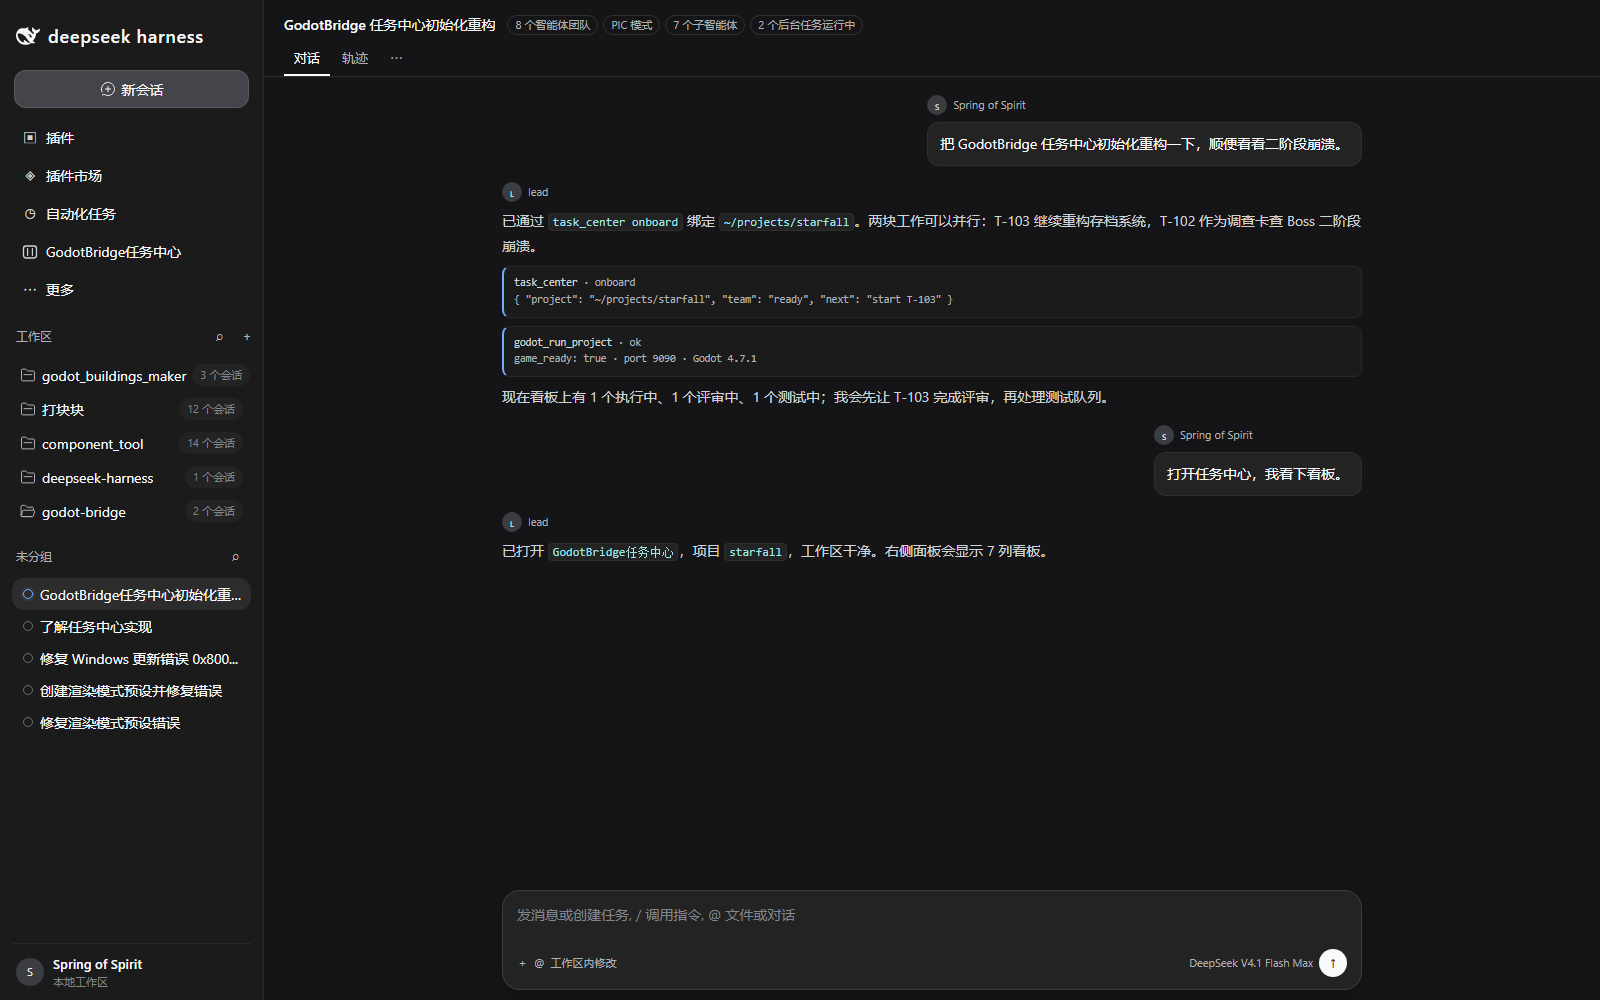
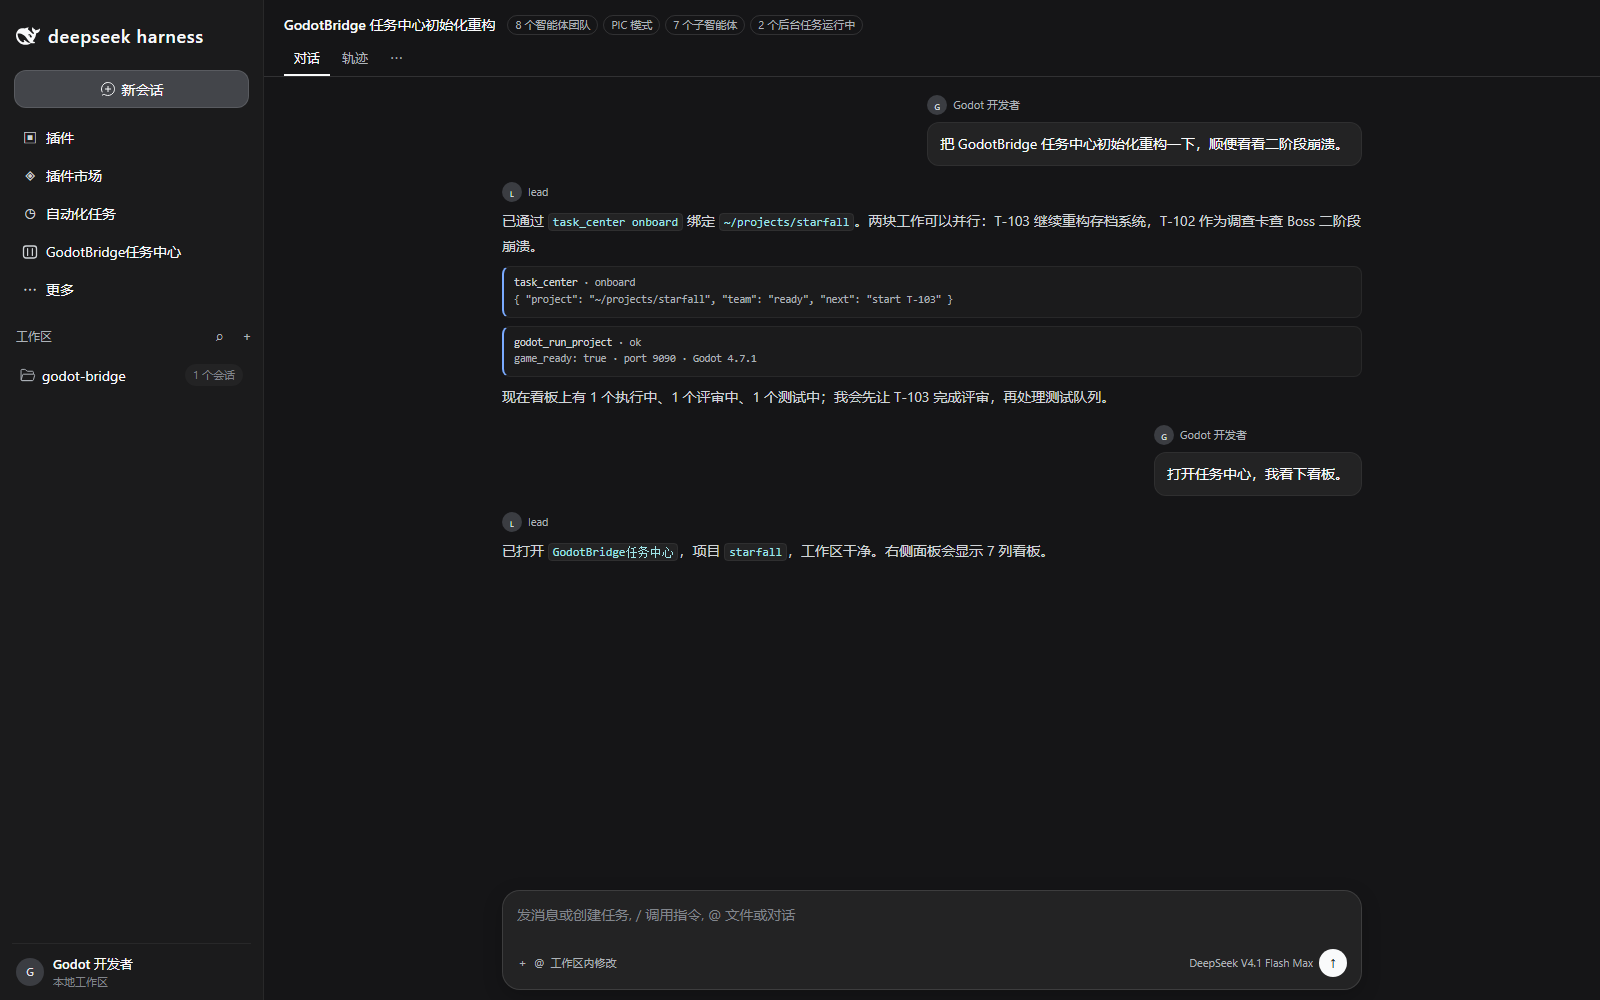
docs: simplify hero preview and illustrate bridge

diff --git a/site/index.html b/site/index.html
@@ -44,7 +44,7 @@
     <div class="hero-copy">
       <div class="eyebrow"><span class="pulse"></span> DeepSeek Harness Plugin · Godot 4.x</div>
       <h1>从操作游戏，<br><span class="grad">到交付任务</span></h1>
-      <p class="lede">Bridge 直接驱动运行中的 Godot 游戏；Task Center 把实现、评审、测试、合并跑成可审计的流水线。17 个原生 <code>godot_*</code> 工具 + 项目任务中心，一个 DSH 插件，两边都原生。</p>
+      <p class="lede">Bridge 直接驱动运行中的 Godot 游戏；Task Center 把实现、评审、测试、合并跑成可审计的流水线。17 个原生 <code>godot_*</code> 工具 + 项目任务中心，一个插件就能实现。</p>
       <div class="hero-actions">
         <a class="btn primary" href="#install">开始安装 <span class="arrow">→</span></a>
         <a class="btn" href="#workflow">看看怎么工作</a>
@@ -64,18 +64,38 @@
         <img src="assets/task-center.png" alt="DSH 侧栏与 GodotBridge 任务中心看板" width="1600" height="1000">
         <a class="zoom" href="assets/task-center.png" target="_blank" rel="noreferrer">查看原图 ↗</a>
       </div>
-      <div class="bridge-console">
-        <div class="bc-head"><span class="bc-tag">BRIDGE</span><span class="bc-live"><i></i>connected · 127.0.0.1:9090</span></div>
-        <div class="bc-body">
-          <div class="bc-lines">
-            <div class="bc-line"><code>godot_run_project</code><span>game_ready: true</span></div>
-            <div class="bc-line"><code>godot_command</code><span>get_scene_tree</span></div>
-            <div class="bc-line"><code>godot_command</code><span>eval · paused</span></div>
-            <div class="bc-line"><code>godot_screenshot</code><span>1600 × 900</span></div>
-          </div>
-          <div class="bc-tree"><b>Main</b><br>├─ Player<br>├─ Camera2D<br>└─ HUD</div>
-        </div>
-        <div class="bc-foot"><span>直接操作运行中的游戏</span><span>eval ✓</span></div>
+      <div class="visual-label bridge-label"><b>BRIDGE</b><span>直接操作运行中的游戏</span></div>
+      <div class="bridge-figure">
+        <svg class="bridge-diagram" viewBox="0 0 560 190" role="img" aria-label="DSH Agent 通过 TCP 9090 操作运行中的 Godot 游戏">
+          <defs>
+            <linearGradient id="gameSky" x1="0" y1="0" x2="0" y2="1"><stop offset="0" stop-color="#2b3f63"/><stop offset="1" stop-color="#182337"/></linearGradient>
+            <marker id="arrow" viewBox="0 0 8 8" refX="7" refY="4" markerWidth="6" markerHeight="6" orient="auto"><path d="M0 0L8 4L0 8Z" fill="#7aaaff"/></marker>
+            <marker id="arrowStart" viewBox="0 0 8 8" refX="1" refY="4" markerWidth="6" markerHeight="6" orient="auto"><path d="M8 0L0 4L8 8Z" fill="#7aaaff"/></marker>
+          </defs>
+          <rect x="10" y="22" width="176" height="132" rx="13" fill="#232324" stroke="#3a3d42"/>
+          <rect x="23" y="34" width="150" height="76" rx="7" fill="url(#gameSky)" stroke="#3a4a63"/>
+          <circle cx="68" cy="64" r="7" fill="#f9fafb"/>
+          <rect x="38" y="82" width="58" height="6" rx="3" fill="#7aaaff" opacity=".45"/>
+          <rect x="108" y="72" width="48" height="6" rx="3" fill="#7aaaff" opacity=".28"/>
+          <rect x="38" y="94" width="30" height="5" rx="2.5" fill="#b7a6ff" opacity=".35"/>
+          <text x="23" y="128" fill="#f9fafb" font-family="system-ui,sans-serif" font-size="12" font-weight="600">Godot 4.x</text>
+          <text x="23" y="144" fill="#81858c" font-family="ui-monospace,monospace" font-size="8.5">McpInteractionServer</text>
+          <path d="M186 90H246" stroke="#7aaaff" stroke-width="1.3" stroke-dasharray="4 4" marker-start="url(#arrowStart)" marker-end="url(#arrow)"/>
+          <rect x="246" y="69" width="128" height="42" rx="21" fill="#2c2c2e" stroke="#3a3d42"/>
+          <circle cx="264" cy="90" r="3.5" fill="#22c55e"/>
+          <text x="276" y="94" fill="#cfd3d6" font-family="ui-monospace,monospace" font-size="9">TCP 9090 · JSON</text>
+          <path d="M374 90H434" stroke="#7aaaff" stroke-width="1.3" stroke-dasharray="4 4" marker-start="url(#arrowStart)" marker-end="url(#arrow)"/>
+          <rect x="434" y="22" width="116" height="132" rx="13" fill="#232324" stroke="#3a3d42"/>
+          <rect x="447" y="34" width="90" height="30" rx="8" fill="#353536" stroke="#45484d"/>
+          <text x="459" y="53" fill="#f9fafb" font-family="system-ui,sans-serif" font-size="11" font-weight="600">DSH Agent</text>
+          <text x="447" y="82" fill="#81858c" font-family="system-ui,sans-serif" font-size="8.5">17 个 godot_* 工具</text>
+          <g font-family="ui-monospace,monospace" font-size="8" fill="#cfd3d6">
+            <rect x="447" y="94" width="38" height="18" rx="5" fill="#353536"/><text x="453" y="106">run</text>
+            <rect x="490" y="94" width="47" height="18" rx="5" fill="#353536"/><text x="496" y="106">cmd</text>
+            <rect x="447" y="118" width="45" height="18" rx="5" fill="#353536"/><text x="453" y="130">shot</text>
+            <rect x="497" y="118" width="40" height="18" rx="5" fill="#353536"/><text x="503" y="130">eval</text>
+          </g>
+        </svg>
       </div>
     </div>
   </div>

diff --git a/site/preview/index.html b/site/preview/index.html
@@ -314,7 +314,7 @@ body.chrome0 #toolbar{display:none}
         <div class="sessionRow"><span class="statusDot"></span><span class="title">修复渲染模式预设错误</span></div>
       </div>
     </div>
-    <div class="sideFoot"><div class="avatar">S</div><div><b>Spring of Spirit</b><span>本地工作区</span></div></div>
+    <div class="sideFoot"><div class="avatar">G</div><div><b>Godot 开发者</b><span>本地工作区</span></div></div>
   </aside>
   <main class="main" id="main"></main>
 </div>
@@ -449,9 +449,9 @@ Git
 <div class="chat">
   <header class="chatHead"><div class="chatTitleRow"><div class="chatTitle">GodotBridge 任务中心初始化重构</div><div class="chatBadges"><span class="badge">8 个智能体团队</span><span class="badge">PIC 模式</span><span class="badge">7 个子智能体</span><span class="badge">2 个后台任务运行中</span></div></div><div class="chatTabs"><button class="chatTab active">对话</button><button class="chatTab">轨迹</button><button class="chatTab">⋯</button></div></header>
   <div class="chatBody"><div class="thread">
-    <div class="msg user"><div class="who"><span class="avatar">S</span>Spring of Spirit</div><div class="bubble"><p>把 GodotBridge 任务中心初始化重构一下，顺便看看二阶段崩溃。</p></div></div>
+    <div class="msg user"><div class="who"><span class="avatar">G</span>Godot 开发者</div><div class="bubble"><p>把 GodotBridge 任务中心初始化重构一下，顺便看看二阶段崩溃。</p></div></div>
     <div class="msg assistant"><div class="who"><span class="avatar">L</span>lead</div><div class="bubble"><p>已通过 <code>task_center onboard</code> 绑定 <code>~/projects/starfall</code>。两块工作可以并行：T-103 继续重构存档系统，T-102 作为调查卡查 Boss 二阶段崩溃。</p><div class="tool"><b>task_center</b> · onboard<br>{ "project": "~/projects/starfall", "team": "ready", "next": "start T-103" }</div><div class="tool"><b>godot_run_project</b> · ok<br>game_ready: true · port 9090 · Godot 4.7.1</div><p>现在看板上有 1 个执行中、1 个评审中、1 个测试中；我会先让 T-103 完成评审，再处理测试队列。</p></div></div>
-    <div class="msg user"><div class="who"><span class="avatar">S</span>Spring of Spirit</div><div class="bubble"><p>打开任务中心，我看下看板。</p></div></div>
+    <div class="msg user"><div class="who"><span class="avatar">G</span>Godot 开发者</div><div class="bubble"><p>打开任务中心，我看下看板。</p></div></div>
     <div class="msg assistant"><div class="who"><span class="avatar">L</span>lead</div><div class="bubble"><p>已打开 <code>GodotBridge任务中心</code>，项目 <code>starfall</code>，工作区干净。右侧面板会显示 7 列看板。</p></div></div>
   </div></div>
   <div class="composerWrap"><div class="composer"><div class="ph">发消息或创建任务, / 调用指令, @ 文件或对话</div><div class="row"><span>＋</span><span>@</span><span>工作区内修改</span><span class="grow"></span><span>DeepSeek V4.1 Flash Max</span><span class="send">↑</span></div></div></div>
@@ -476,6 +476,15 @@ document.querySelectorAll('.sessionRow').forEach(function (row) {
 if (!taskMode) {
   const first = document.querySelector('.sessionRow');
   if (first) first.classList.add('selected');
+}
+if (params.get('simple') === '1') {
+  document.querySelectorAll('.projectRow:not([data-project="godot-bridge"])').forEach(function (row) { row.remove(); });
+  document.querySelectorAll('.sessionRow').forEach(function (row) { row.remove(); });
+  document.querySelectorAll('.sectionHead').forEach(function (head) { if (head.textContent.indexOf('未分组') >= 0) head.remove(); });
+  const count = document.querySelector('[data-project="godot-bridge"] .count');
+  if (count) count.textContent = '1 个会话';
+  const foot = document.querySelector('.sideFoot');
+  if (foot) foot.innerHTML = '<div class="avatar">G</div><div><b>Godot 开发者</b><span>本地工作区</span></div>';
 }
 </script>
 </body>

diff --git a/site/styles.css b/site/styles.css
@@ -69,6 +69,9 @@ h1{font-size:clamp(46px,5.8vw,76px);line-height:1.05;letter-spacing:-.045em;font
 .visual-label{display:flex;align-items:baseline;gap:8px;margin:0 0 8px;color:var(--caption);font-size:9.5px;letter-spacing:.14em;text-transform:uppercase}
 .visual-label b{color:var(--secondary);font-weight:600;letter-spacing:.16em}
 .visual-label span{color:var(--caption);letter-spacing:.02em;text-transform:none}
+.bridge-label{margin:12px 0 6px}
+.bridge-figure{margin-top:10px;padding:8px 10px 6px;border:1px solid var(--border-strong);border-radius:12px;background:var(--bg2);box-shadow:0 16px 40px rgba(0,0,0,.28)}
+.bridge-diagram{display:block;width:100%;height:auto}
 .bridge-console{margin-top:10px;border:1px solid var(--border-strong);border-radius:12px;background:var(--bg2);overflow:hidden;box-shadow:0 16px 40px rgba(0,0,0,.28)}
 .bc-head{display:flex;align-items:center;gap:8px;padding:8px 11px;border-bottom:1px solid var(--border);background:var(--layer1)}
 .bc-tag{color:var(--blue);font-size:9px;font-weight:600;letter-spacing:.14em}

diff --git a/site/app.js b/site/app.js
@@ -34,7 +34,7 @@
     });
   }
 
-  const reveal = document.querySelectorAll('.section, .cta, .stat-strip');
+  const reveal = document.querySelectorAll('.section, .cta');
   if ('IntersectionObserver' in window) {
     const io = new IntersectionObserver(function (entries) {
       entries.forEach(function (entry) {
